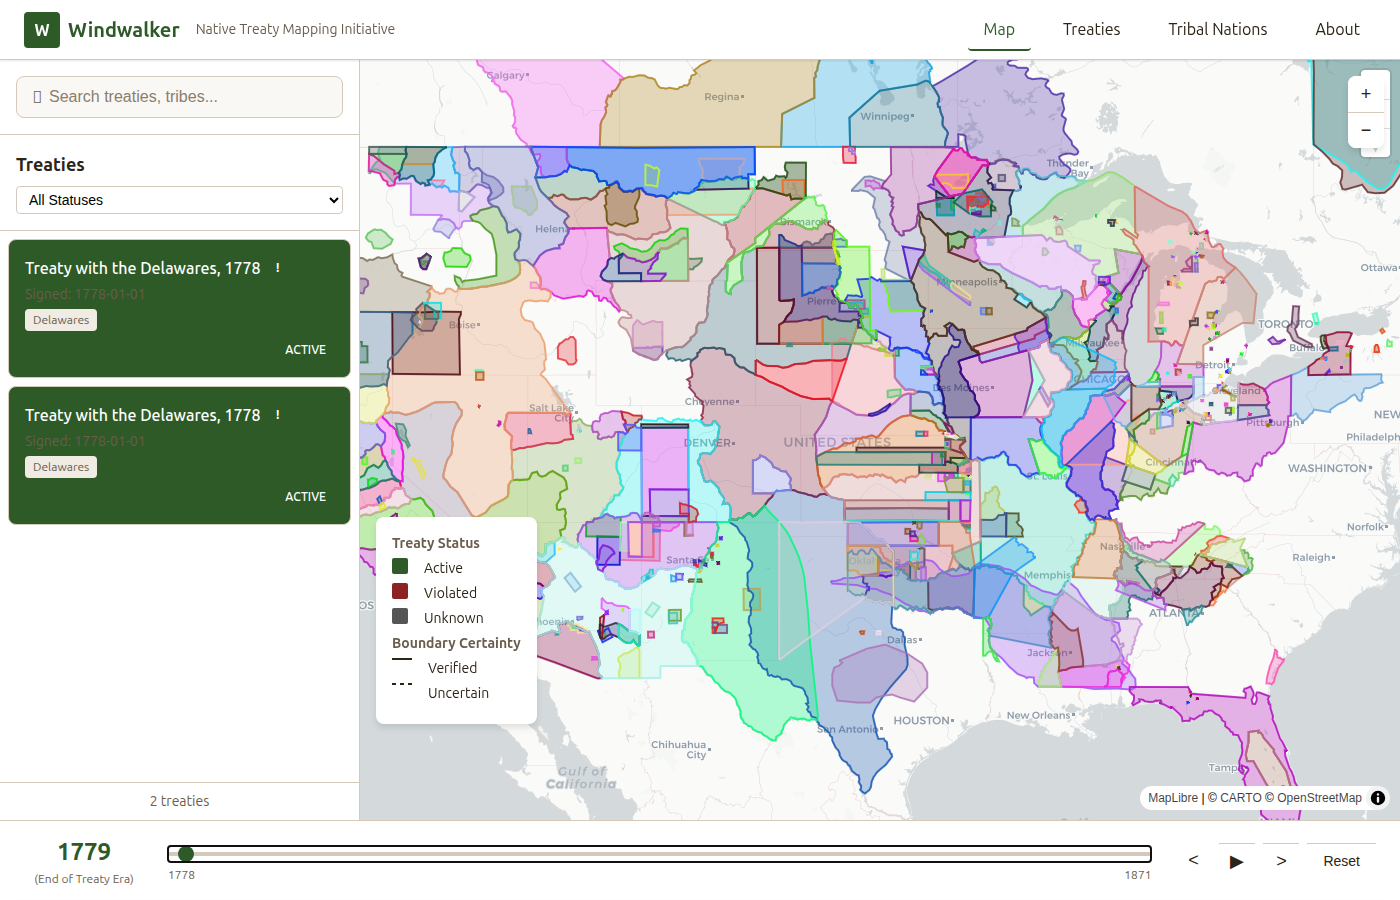
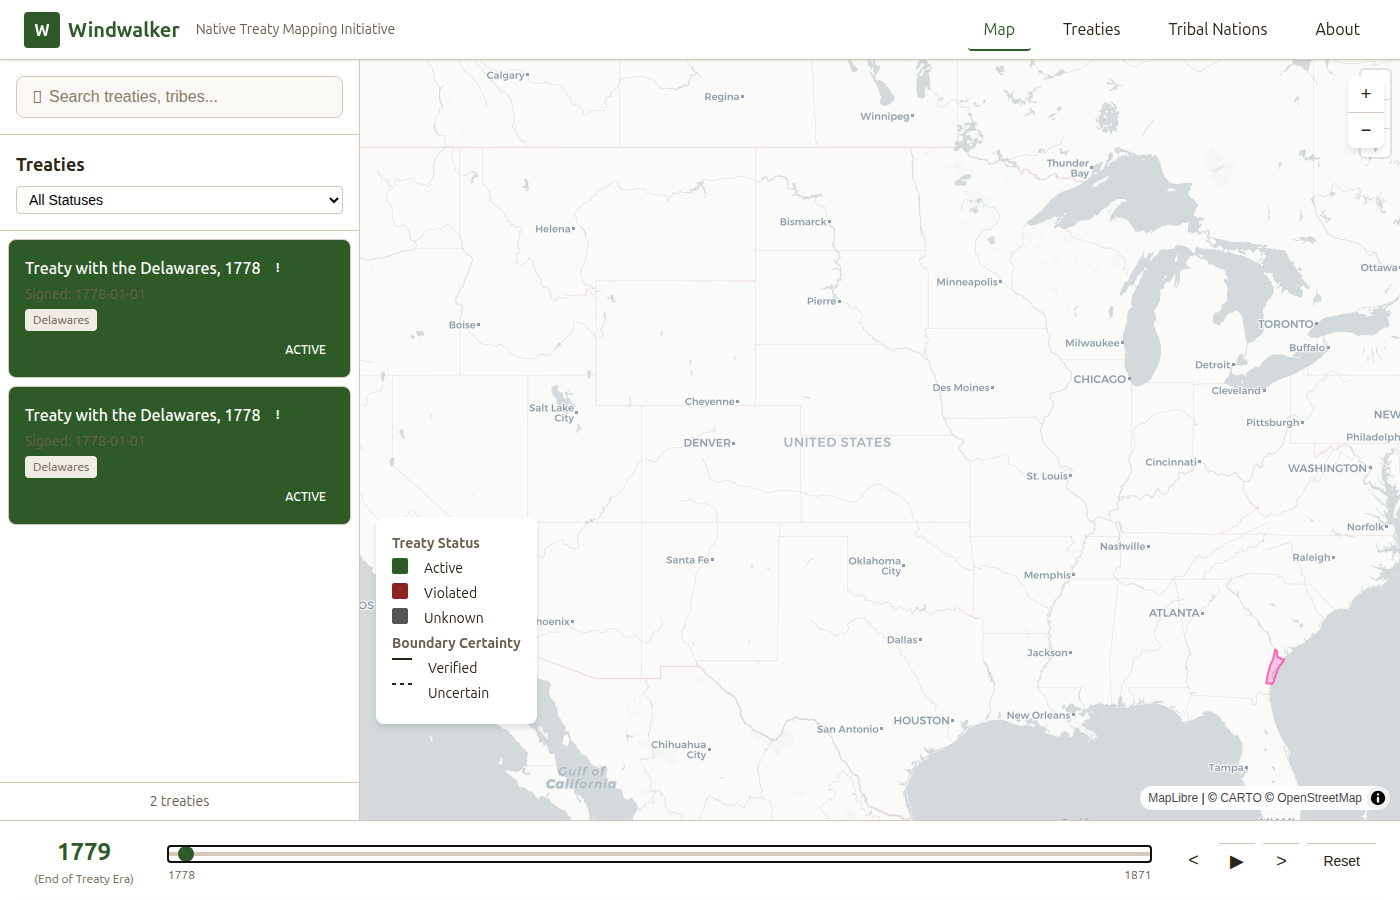
fix(map): Filter boundaries properly by year
Only show boundaries with confirmed dates when timeline is filtered.
At 1871 (max), show all boundaries. At earlier years, exclude
boundaries without parseable years in their names.

🤖 Generated with [Claude Code](https://claude.com/claude-code)

diff --git a/web/dist/app.js b/web/dist/app.js
@@ -695,8 +695,10 @@ function filterBoundariesByYear(maxYear) {
         type: 'FeatureCollection',
         features: boundariesGeoJSON.features.filter(feature => {
             const year = extractYearFromName(feature.properties.Name || '');
-            // Include if no year found (unknown date) or year <= maxYear
-            return year === null || year <= maxYear;
+            // At max year (1871), show all boundaries
+            if (maxYear >= 1871) return true;
+            // Otherwise, only show boundaries with confirmed year <= maxYear
+            return year !== null && year <= maxYear;
         })
     };
 
